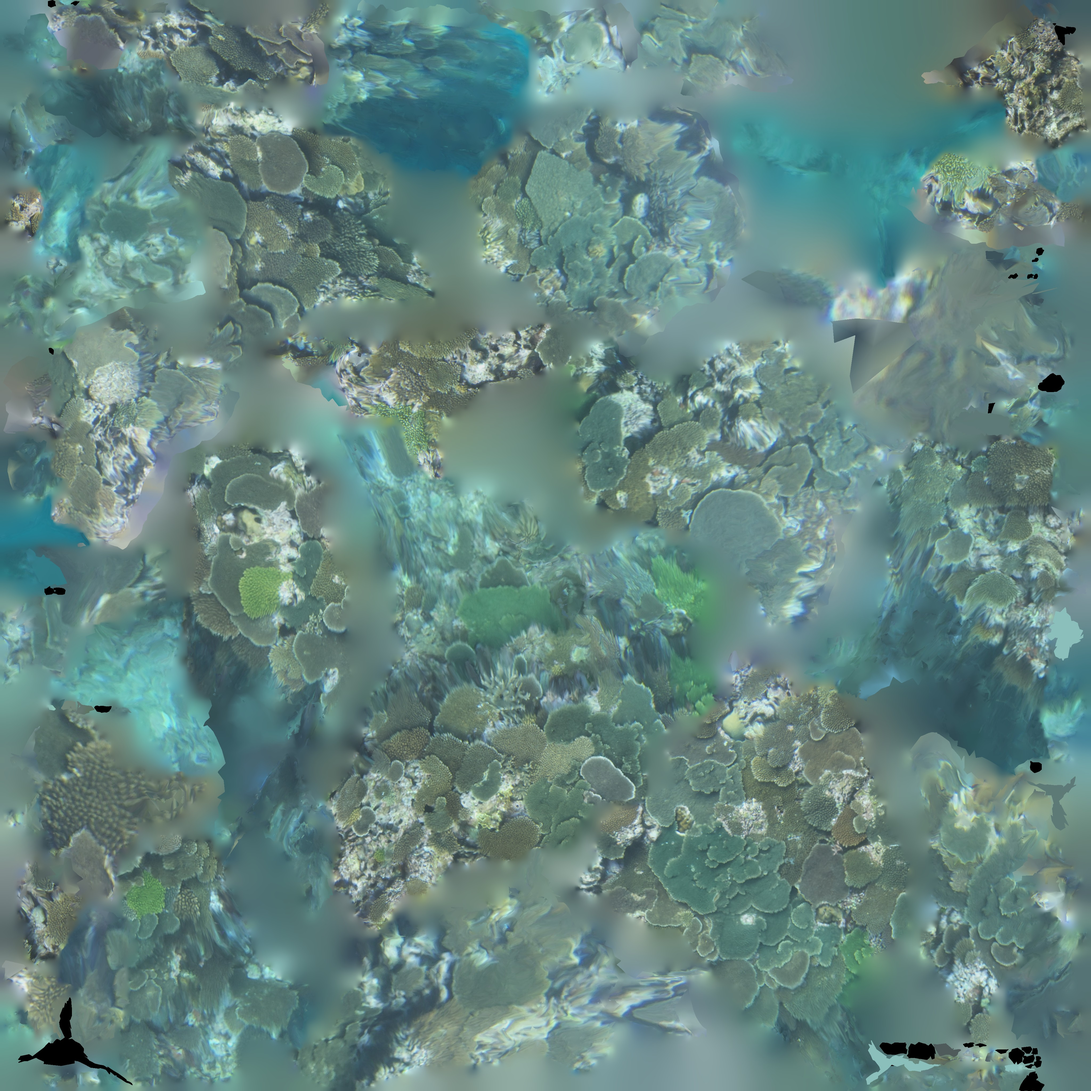
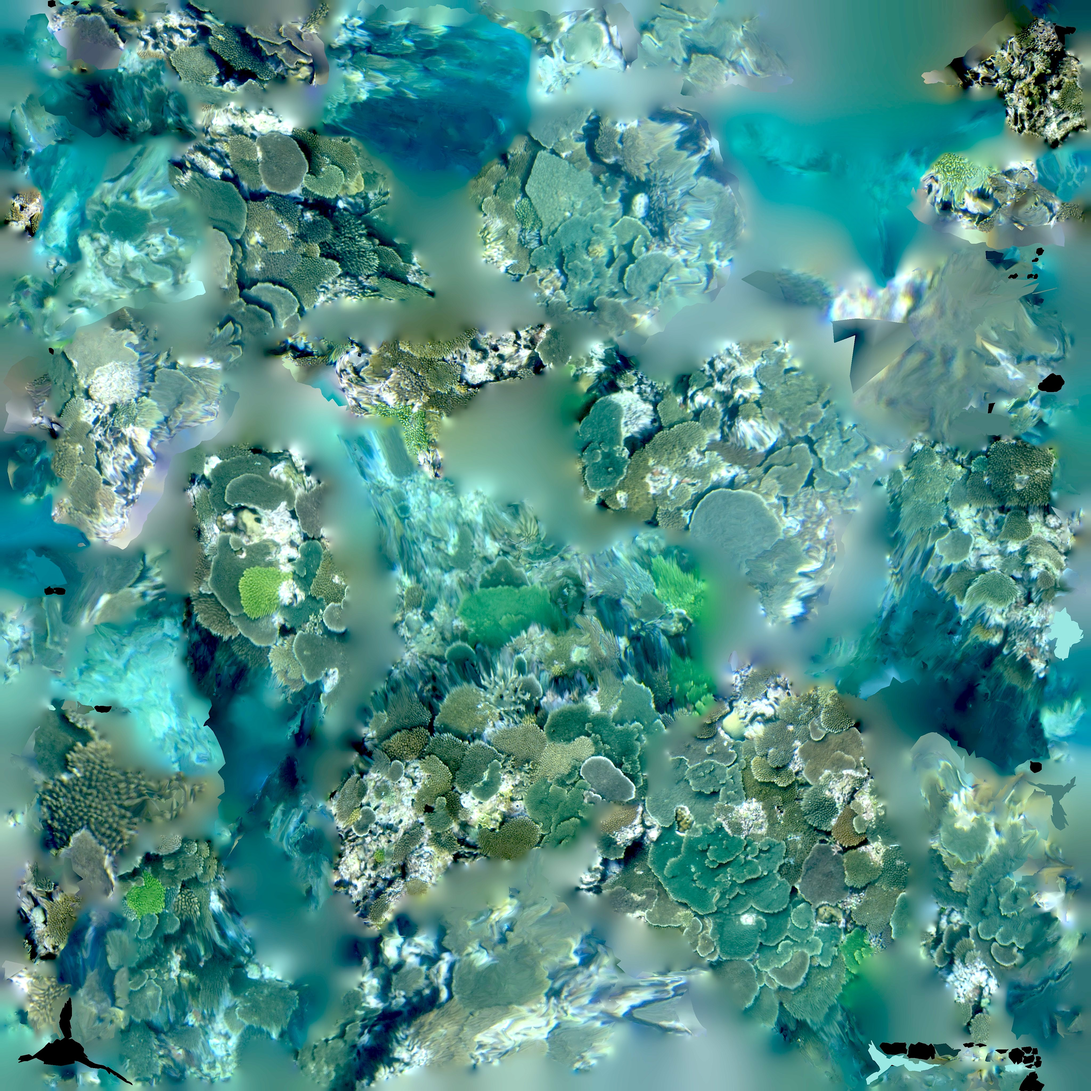
Updated Okinawa Models

diff --git a/models/model_co_oki_R2.html b/models/model_co_oki_R2.html
@@ -54,7 +54,7 @@
 
 				scene = new THREE.Scene();
 
-				var ambientLight = new THREE.AmbientLight( 0xffbbbb, 1.5 );
+				var ambientLight = new THREE.AmbientLight( 0xffeeee, 1.0 );
 				scene.add( ambientLight );
 
 				//var pointLight = new THREE.PointLight( 0xffffff, 0.8 );
@@ -83,15 +83,15 @@
 				// manager.addHandler( /\.tga$/i, new TGALoader() );
 
 				new MTLLoader( manager )
-					.setPath( 'https://mehulns.github.io/models/M0/' )
-					.load( 'model.mtl', function ( materials ) {
+					.setPath( 'https://mehulns.github.io/models/co_oki/R2/' )
+					.load( 'chunk2.mtl', function ( materials ) {
 
 						materials.preload();
 
 						new OBJLoader( manager )
 							.setMaterials( materials )
-                            .setPath( 'https://mehulns.github.io/models/M0/' )
-							.load( 'model.obj', function ( object ) {
+                            .setPath( 'https://mehulns.github.io/models/co_oki/R2/' )
+							.load( 'chunk2.obj', function ( object ) {
 
 								object.position.y = 10;
 								scene.add( object );

diff --git a/models/model_co_oki_R3.html b/models/model_co_oki_R3.html
@@ -54,7 +54,7 @@
 
 				scene = new THREE.Scene();
 
-				var ambientLight = new THREE.AmbientLight( 0xffbbbb, 1.5 );
+				var ambientLight = new THREE.AmbientLight( 0xffeeee, 1.0 );
 				scene.add( ambientLight );
 
 				//var pointLight = new THREE.PointLight( 0xffffff, 0.8 );
@@ -83,15 +83,15 @@
 				// manager.addHandler( /\.tga$/i, new TGALoader() );
 
 				new MTLLoader( manager )
-					.setPath( 'https://mehulns.github.io/models/M0/' )
-					.load( 'model.mtl', function ( materials ) {
+					.setPath( 'https://mehulns.github.io/models/co_oki/R3/' )
+					.load( 'chunk3.mtl', function ( materials ) {
 
 						materials.preload();
 
 						new OBJLoader( manager )
 							.setMaterials( materials )
-                            .setPath( 'https://mehulns.github.io/models/M0/' )
-							.load( 'model.obj', function ( object ) {
+                            .setPath( 'https://mehulns.github.io/models/co_oki/R3/' )
+							.load( 'chunk3.obj', function ( object ) {
 
 								object.position.y = 10;
 								scene.add( object );
